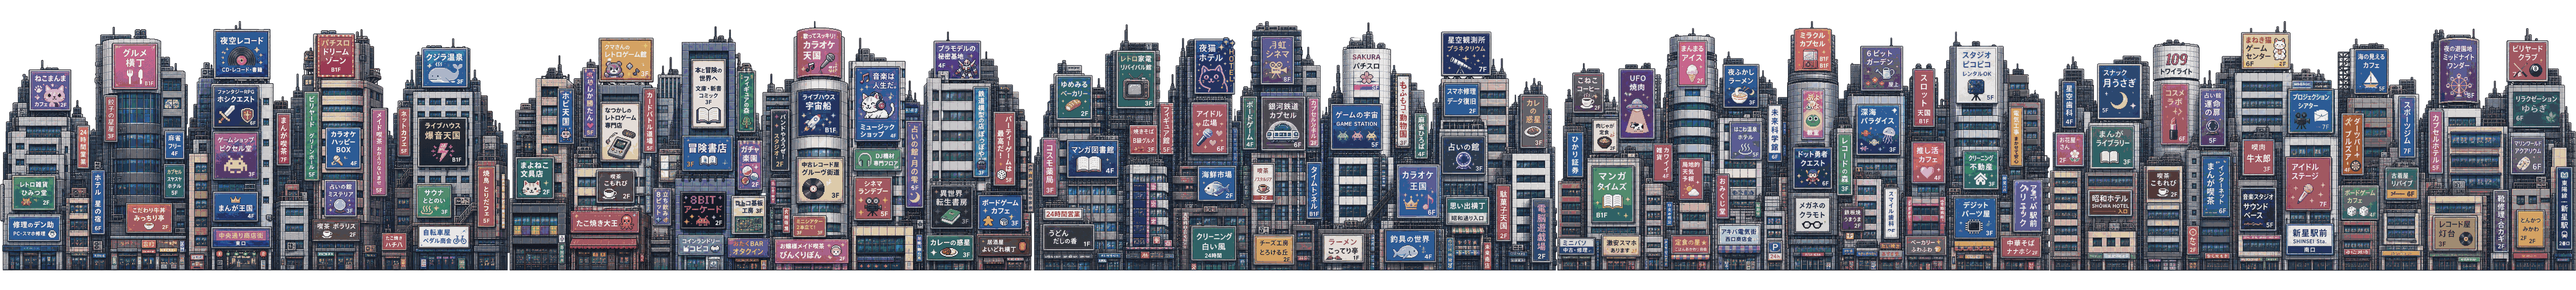
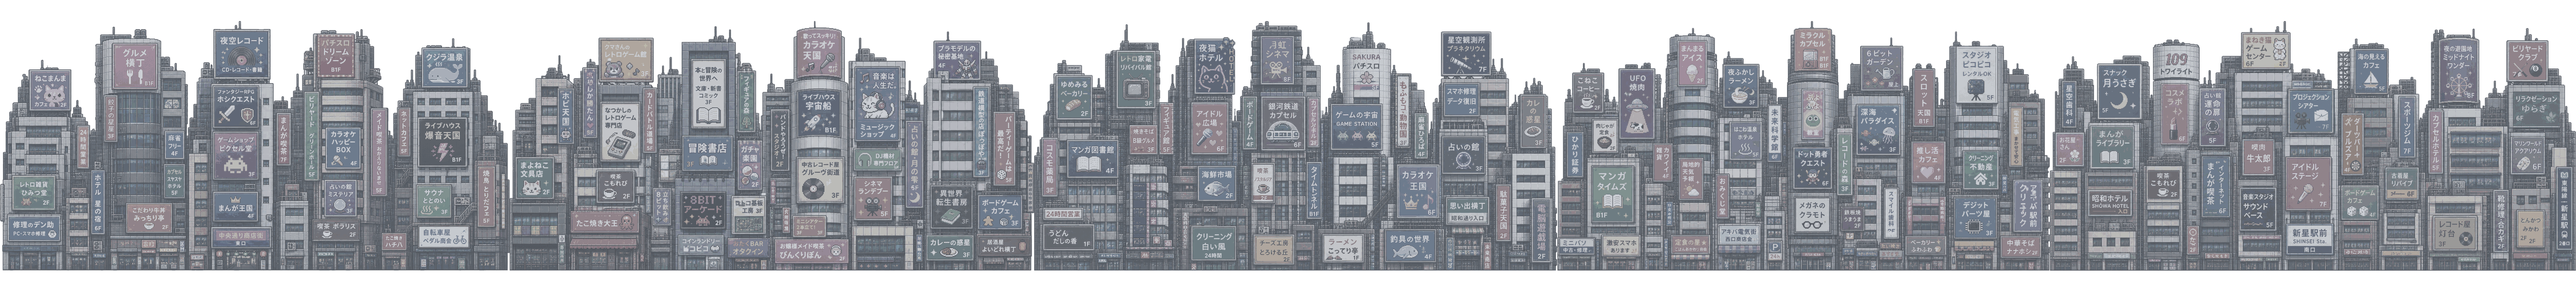
Fade midground colors further

diff --git a/src/main.ts b/src/main.ts
@@ -8,7 +8,7 @@ const TILE = 32;
 const WORLD_WIDTH = 4200;
 const WORLD_HEIGHT = 720;
 const ASSET_BASE = import.meta.env.BASE_URL;
-const DEBUG_VERSION = "v0.1.7";
+const DEBUG_VERSION = "v0.1.8";
 const FOOTPATH_SOURCE_HEIGHT = 204;
 const FOOTPATH_DISPLAY_HEIGHT = 204;
 const FOOTPATH_SCALE = FOOTPATH_DISPLAY_HEIGHT / FOOTPATH_SOURCE_HEIGHT;
